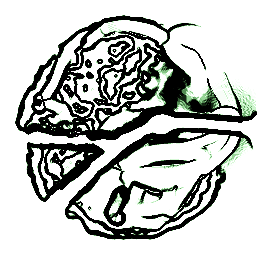
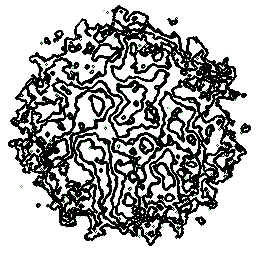
update terrain system

diff --git a/docs/level_kit.md b/docs/level_kit.md
@@ -160,7 +160,11 @@ hand-authoring GridMap cell/orientation data is fragile), then re-bake.
 - **Generator:** `TerrainGen` (`kit/terrain/terrain_gen.gd`, static pure fns, tested in
   `tests/test_terrain_gen.gd`). Preset = character (fractal type, relative amplitude,
   island radial falloff); knobs = `gen_seed` / `feature_scale` (m per feature) /
-  `gen_octaves` / falloff band / **terrace plateaus** (`terrace_steps` + `terrace_flat`,
+  `gen_octaves` / falloff band / **`coast_roughness`** (island only, 0 = perfectly round,
+  1 = ragged bays and headlands — perturbs the falloff radius with a derived-seed coast
+  noise; a hard unperturbed guard past r=0.92 keeps the map border at sea level, and
+  `coast_roughness == 0` is byte-identical to the pre-roughness output) / **terrace
+  plateaus** (`terrace_steps` + `terrace_flat`,
   applied last so island coasts step into concentric rings — the buildable flats
   villages/farms need; band centres are preserved so relief is unchanged). **World
   amplitude is the `height` export** — generated pixels stay normalized [0,1] (8-bit
@@ -263,8 +267,23 @@ hand-authoring GridMap cell/orientation data is fragile), then re-bake.
     `unit_slice`, dirty rect = the whole image. Strength/falloff have no say.
   - **Square brush** (`square`): swaps `brush_dist` from Euclidean to **Chebyshev**,
     axis-aligned in image space (= world axes for our unrotated terrains). Sculpt and paint
-    honour it; the ramp has its own swept shape. Note `weight(1.0) == 0`, so a footprint
-    corner only lands when it is strictly inside the rim.
+    honour it; the ramp has its own swept shape. The square passes `inclusive = true` to
+    `weight`, so its **exact rim (t == 1.0) is stamped** (round + ramp keep the rim excluded)
+    — without it two abutting 12 m pads each dropped their shared boundary column and left a
+    one-pixel seam. Rim inclusion only reaches the edge at **hard falloff** (edge softness 0);
+    a soft square still fades, so flush GridMap pads want edge softness 0.
+  - **Snap to grid** (`grid_snap`): locks the brush centre onto the road GridMap's cell
+    **centres** in `_project` (so cursor, drag, ramp endpoints and eyedropper all snap alike),
+    via `BrushOps.snap_to_grid`. Reads the found GridMap's `cell_size`/origin/`cell_center_*`
+    when the plugin hands one over (`set_grid`), else a **12 m centre-true lattice at world
+    origin** (what a `RoadsTiles` node would use) so pads can be sculpted before tiles exist.
+    The **half-cell offset matters**: a `(12,3,12)` centre-true GridMap centres cell 0 at
+    local 6, not 0, so `_snap_center` adds `cell_size*0.5` per centre-true axis to the lattice
+    origin (snapping to plain multiples of 12 would sit half a cell off the tiles). The plugin
+    finds the GridMap by the `RoadsTiles` name (else the first `GridMap`) on selection. Turning
+    it on also pushes the GridMap's vertical cell size (3 m default, `grid_cell_y()`) into
+    Flatten's `snap_step`; the **"12 m (GridMap cell)" preset** ticks it and drops edge
+    softness to 0 (flush pads in one click).
 - **Editor-only; PNGs stay the sole artifact.** A brush never swaps the terrain's
   exported `heightmap`/`splatmap` Texture2D, so the scene always serializes the PNG
   reference (sole exception: the lazily created `splatmap2`, which has no PNG to point at
@@ -300,7 +319,8 @@ hand-authoring GridMap cell/orientation data is fragile), then re-bake.
   which is what keeps the panel scannable: the flatten target box, the ramp hint, and the
   channel picker (8 entries, refilled per selection from the terrain's `channel_names` +
   a color swatch per channel; the selection survives the refill) + fill button. Shape is
-  the exception — it shows in every stamping mode (all but Off and Ramp). The plugin tracks
+  the exception — it shows in every stamping mode (all but Off and Ramp), and the Snap-to-
+  grid checkbox shows in every mode but Off. The plugin tracks
   `selection_changed` → sets the brush target to any selected `HeightmapTerrain`; picking a
   mode disarms the placement ghost. Terrain needs **no AuthoringRoot** for brushing (unlike
   prop placement).

diff --git a/docs/systems.md b/docs/systems.md
@@ -208,6 +208,13 @@ lock the rears — drift comes from the grip cut, not brake torque.
   physics flush). The region is an **axis-aligned rect** around the node origin
   (`contains_xz`) — don't rotate it. Water is a direct child of the level (like terrain),
   **never under `Authoring`** (not bakeable kit content).
+- **Depth-fade shading** (`water.gdshader`, fragment-only — physics untouched): the shader
+  samples `hint_depth_texture`, reconstructs the opaque scene's view distance behind each
+  water fragment, and fades `shallow_alpha`→`deep_alpha` / `water_color`→`deep_color` over
+  `depth_fade_m` of water column. Shallow water stays translucent (free shore gradient),
+  deep water goes opaque so the seafloor and the square map edge behind it disappear. NDC
+  z is reconstructed for **gl_compatibility** (`depth * 2.0 - 1.0`; Forward+ leaves depth
+  as-is) — the whole project runs Compatibility.
 - **`BoatVehicle extends BaseVehicle`** (`src/vehicles/boat/`) follows the tractor
   template exactly: only the two seams (`_make_telemetry()` → `BoatTelemetry`,
   `_tick_extras` = buoyancy/drag/thrust/rudder), `respawn()` = `super()` + trim reset.